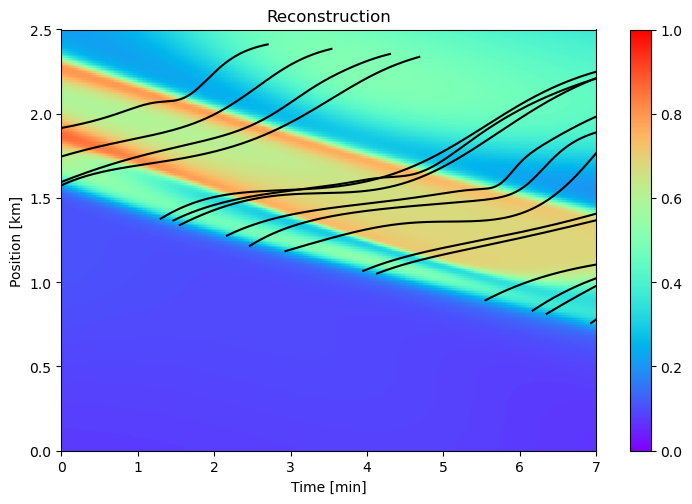
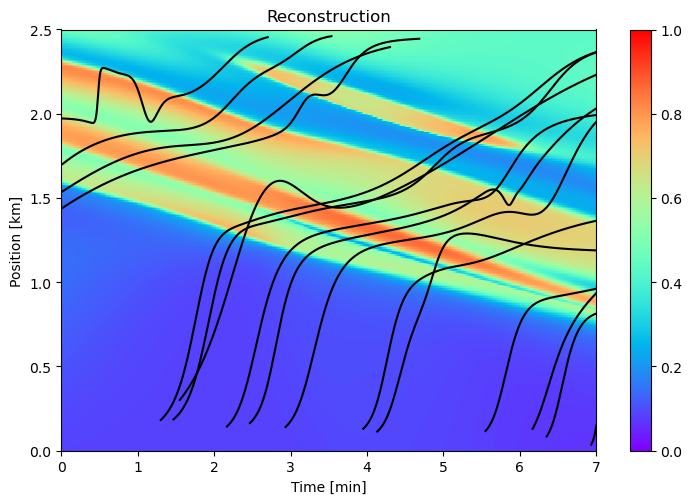
work 8 april, looks like convergence is slower now

diff --git a/neural_network_pytorch.py b/neural_network_pytorch.py
@@ -101,7 +101,21 @@ class NeuralNetwork(nn.Module):
         self.t_f = torch.tensor(X_f[:, 1:2], dtype=torch.float32, requires_grad=True) # time data points for the PDE [500, 1]
         self.t_g = torch.tensor(t_g, dtype=torch.float32, requires_grad=True) # time data points for the PDE 16*[50, 1]
         self.u_v = torch.tensor(u_v, dtype=torch.float32, requires_grad=True) # density data points for the PDE [50, 1]
-        
+
+        # weights of the losses
+        self.lambdas = {
+            "MSEf": torch.tensor(1, dtype=torch.float32, requires_grad=True),
+            "MSEg": torch.tensor(1, dtype=torch.float32, requires_grad=True),
+            "MSEv": torch.tensor(1, dtype=torch.float32, requires_grad=True),
+            "MSEgamma": torch.tensor(1, dtype=torch.float32, requires_grad=True),
+            "MSEu1": torch.tensor(1, dtype=torch.float32, requires_grad=True),
+            "MSEu2": torch.tensor(1, dtype=torch.float32, requires_grad=True),
+            "MSEtrajectories": torch.tensor(1, dtype=torch.float32, requires_grad=True),
+            "MSEv1": torch.tensor(1, dtype=torch.float32, requires_grad=True),
+            "MSEv2":torch.tensor(1, dtype=torch.float32, requires_grad=True)
+        }
+
+
         self.N = len(self.x)  # Number of agents
         self.max_speed = max_speed
 
@@ -290,14 +304,11 @@ class NeuralNetwork(nn.Module):
 
     def calculate_data_losses(self):
 
-        # breakpoint()
         # Predictions
-        u_pred = [self.net_u(self.t[i], self.x[i]) - self.noise_rho_bar[i]*0 for i in range(len(self.t))] # list of tensors, since each tensor has a different shape
+        u_pred = [self.net_u(self.t[i], self.x[i]) - self.noise_rho_bar[i] for i in range(len(self.t))] # list of tensors, since each tensor has a different shape
         x_pred = [self.net_x_pv(self.t[i], i) for i in range(len(self.t))]  
-        u_pred_pv_position = [self.net_u(self.t[i], x_pred[i]) - self.noise_rho_bar[i]*0 for i in range(len(self.t))]
+        u_pred_pv_position = [self.net_u(self.t[i], x_pred[i]) - self.noise_rho_bar[i] for i in range(len(self.t))]
         v_pred = [self.net_v(self.u[i]) for i in range(len(self.t))]
-
-        # Data Losses
 
         # L_2
         MSEu1_list = [F.mse_loss(self.u[i], u_pred[i]) for i in range(len(self.u))] # L_2
@@ -307,13 +318,15 @@ class NeuralNetwork(nn.Module):
         MSEu2_list = [F.mse_loss(self.u[i], u_pred_pv_position[i]) for i in range(len(self.u))] # L_4
         MSEu2 = torch.mean(torch.stack(MSEu2_list))  
 
-        # MSEu2_l
+        # L_1
         MSEtrajectories_list = [F.mse_loss(self.x[i], x_pred[i]) for i in range(len(self.x))]
         MSEtrajectories = torch.mean(torch.stack(MSEtrajectories_list))  # MSE for Trajectories Predictions (x_pred - x_true)^2
 
+        # L_3
         MSEv1_list = [F.mse_loss(self.v[i], v_pred[i]) for i in range(len(self.v))] # L_3
         MSEv1 = torch.mean(torch.stack(MSEv1_list))  # MSE for Adjusted Density Predictions (rho_pred - rho_true - noise)^2
 
+        # L_5
         MSEv2_list = [F.mse_loss(self.v[i], self.net_v(u_pred[i])) for i in range(len(self.v))] # L_5
         MSEv2 = torch.mean(torch.stack(MSEv2_list))  # MSE for Adjusted Density Predictions (rho_pred - rho_true - noise)^2
 
@@ -335,10 +348,10 @@ class NeuralNetwork(nn.Module):
         MSEgamma = self.gamma_var**2
 
         return {
-            # "MSEf": MSEf,
-            "MSEg": MSEg,
+            # "MSEf": MSEf/100,
+            # "MSEg": MSEg/100,
             "MSEv": MSEv,
-            "MSEgamma": MSEgamma
+            # "MSEgamma": MSEgamma
         }
 
         
@@ -361,8 +374,8 @@ class NeuralNetwork(nn.Module):
         loss_history = {}
         gamma_var_history = []
         noise_rho_bar_history = []
+        lambdas_history = {key: [] for key in self.lambdas.keys()}
 
-        # breakpoint()
 
         # Define the optimizer
         # all_params = list(self.density_network.parameters()) + list(self.velocity_network.parameters())
@@ -370,14 +383,16 @@ class NeuralNetwork(nn.Module):
         optimizer = optim.Adam([
             {'params': self.density_network.parameters()},
             {'params': self.velocity_network.parameters()},
-            {'params': [p for traj_net in self.trajectories_networks for p in traj_net.parameters()]}, # added this way sucht that it is optimized as well
-            {'params': self.noise_rho_bar}  # Assuming noise_rho_bar is a list of parameters/tensors
+            {'params': [p for traj_net in self.trajectories_networks for p in traj_net.parameters()]}, # added this way such that it is optimized as well
+            {'params': self.noise_rho_bar},  # Assuming noise_rho_bar is a list of parameters/tensors
+            {'params': [self.gamma_var]},
+            # {'params': self.lambdas.values()}
         ], lr=0.005)
         # optimizer = optim.Adam(list(self.parameters()) + [self.gamma_var] + [*self.noise_rho_bar], lr=0.005)
         # optimizer = optim.LBFGS(self.parameters(), lr=0.005)
        
         # Train the model
-        self.N_epochs = 4000
+        self.N_epochs = 6000
         # self.plot_density_loss_on_trajectory()
         with tqdm(total=self.N_epochs, desc="Training Progress") as pbar:
             for epoch in range(self.N_epochs):
@@ -385,7 +400,17 @@ class NeuralNetwork(nn.Module):
                 optimizer.zero_grad()
                 losses_data = self.calculate_data_losses()
                 losses_physics = self.calculate_physics_losses()
-                loss = sum(losses_data.values()) + sum(losses_physics.values())
+                losses = {**losses_data, **losses_physics}
+                # weighted_loss = {key: losses[key] * torch.sigmoid(self.lambdas[key]) for key in losses}
+
+                # breakpoint()
+                # loss = sum(losses_data.values()) + sum(losses_physics.values())
+                loss = sum(losses.values())
+                # if epoch < 4000:
+                #     loss = sum(losses_data.values())
+                # else:
+                #     loss = sum(losses.values())
+                    # loss = sum(weighted_loss.values())
                 # loss = sum([self.sigmas[i]*losses[key] for i, key in enumerate(losses.keys())])
   
                 loss.backward()
@@ -407,10 +432,12 @@ class NeuralNetwork(nn.Module):
                 gamma_var_history.append(self.gamma_var.item())
                 noise_rho_bar_history.append([tensor.item() for tensor in self.noise_rho_bar])
 
+                for key, value in self.lambdas.items():
+                    lambdas_history[key].append(torch.sigmoid(value).item())
+
                
-            # breakpoint()
             self.plot_density_loss_on_trajectory()
-            return loss_history, gamma_var_history, noise_rho_bar_history
+            return loss_history, gamma_var_history, noise_rho_bar_history, lambdas_history
         
      
     # build pytorch network    

diff --git a/main_sumo.py b/main_sumo.py
@@ -44,8 +44,8 @@ def plot_losses(loss_history):
     plt.show()
 
 
-def plot_parameters(gamma_var_history, noise_rho_bar_history):
-    fig, ax = plt.subplots(2, 1, figsize=(15, 10))
+def plot_parameters(gamma_var_history, noise_rho_bar_history, lambdas_history):
+    fig, ax = plt.subplots(3, 1, figsize=(15, 10))
     fig.suptitle('Parameter History')
 
     ax[0].plot(gamma_var_history)
@@ -59,6 +59,15 @@ def plot_parameters(gamma_var_history, noise_rho_bar_history):
     ax[1].set_xlabel('Epoch')
     ax[1].set_ylabel('Value')
     ax[1].grid(True)
+
+    for key, values in lambdas_history.items():
+        ax[2].plot(values, label=key)
+    # ax[2].plot(lambdas_history)
+    ax[2].set_title('lambdas_history')
+    ax[2].set_xlabel('Epoch')
+    ax[2].set_ylabel('Value')
+    ax[2].grid(True)
+    ax[2].legend()
 
     plt.tight_layout(rect=[0, 0.03, 1, 0.95])  # Adjust the layout to make room for the suptitle
     plt.show()
@@ -78,11 +87,11 @@ axisPlot = sumo.getAxisPlot()
 Vf = np.amax(v_train[14]) # find the highest speed in the training data\
 
 trained_neural_network = rn.ReconstructionNeuralNetwork(t_train, x_train, rho_train, v_train,
-                                                    L, Tmax, N_f=50, N_g=50, opt=9, v_max=Vf)
+                                                    L, Tmax, N_f=500, N_g=100, opt=9, v_max=Vf)
 
-loss_history, gamma_var_history, noise_rho_bar_history = trained_neural_network.train()
+loss_history, gamma_var_history, noise_rho_bar_history, lambdas_history = trained_neural_network.train()
 plot_losses(loss_history)
-plot_parameters(gamma_var_history, noise_rho_bar_history)
+plot_parameters(gamma_var_history, noise_rho_bar_history, lambdas_history)
 
 
 trained_neural_network.plot(axisPlot, rho)
